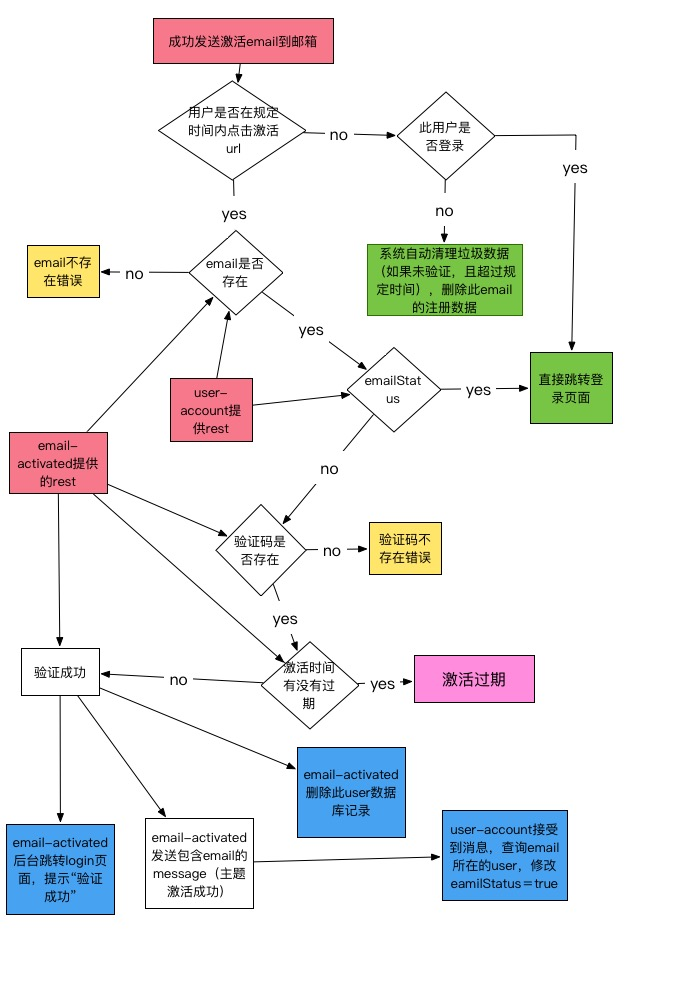
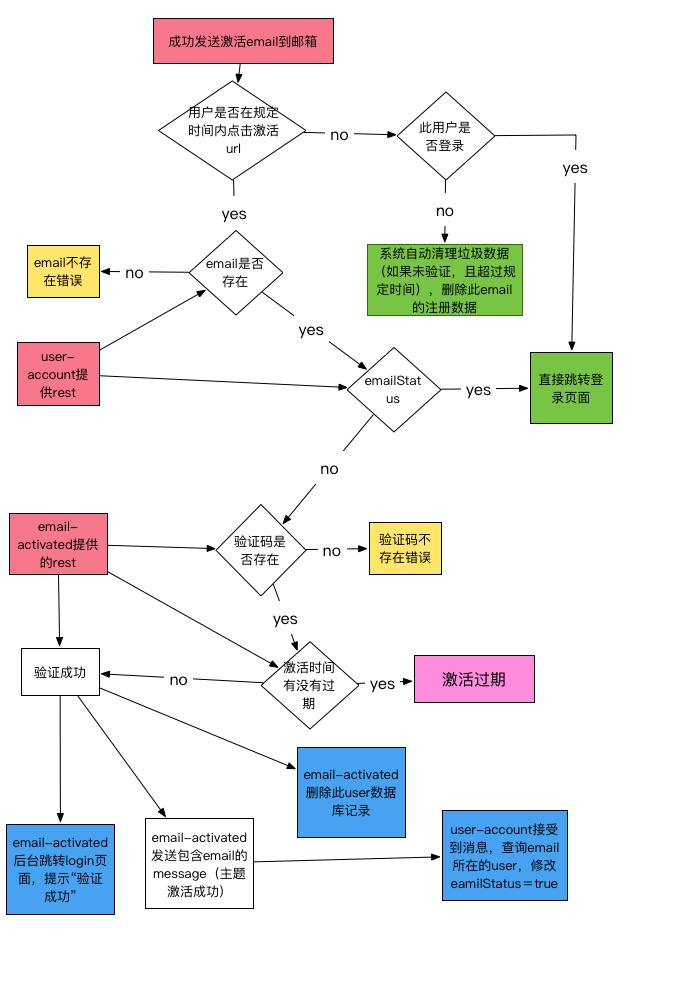
update readme

diff --git a/user-account/README.md b/user-account/README.md
@@ -31,10 +31,9 @@ user的数据库，必须和这些接口对接，不能直接操作数据库。
 
 九 、 更新用户登录时间－－－通过spring cloud stream 监听message（用户注册成功），接受到userId后，自动更新到该user 的 上次登录成功的时间为当时时间。
 
-十 、 通过spring cloud stream 监听 物业公司注册信息的message，当收到此信息后，converter 为user ，增加email激活码和设置email激活状态为false，后然后保存数据库。
+十 、 通过spring cloud stream 监听 物业公司注册信息的message，当收到此信息后，converter 为user ，和设置email激活状态为false，后然后保存数据库。
 
-十一 、 取出刚刚注册的user信息，转为EmailActivatedDto对象，然后发送message ，要求mail-server 发送注册帐号激活的email
 
-十二 、 当用户注册完后，前台页面跳转到 显示消息提示“ 请查收邮箱，如未收到，请查看垃圾邮件，或重新发送邮件，或重新注册”，pc-gateway，通过spring zuul获取到后台的rest接口，来显示上面的信息，和完成ajax提交。
 
-十三 、 当用户点击 激活email的链接时，后台有一个对应url的get方法，来判断url是否正确，是否过时，如果一起都是预期的，则将数据保存到数据库，并且更新用户的email激活状态为true，跳转login页面，并显示 激活成功的 提示信息，
+十一 、 当用户点击 激活email的链接时，如果通过验证，则将数据保存到数据库，并且更新用户的email激活状态为true，
+

diff --git a/auth-server/README.md b/auth-server/README.md
@@ -36,4 +36,4 @@
 
 十二 、 通过监听用户登录成功事件，实现了用户登录成功后，发送spring cloud stream message（userId） 出去，（user——account）接受，并且更新用户登录时间为当时时间的功能。
 
-十四 、 实现了用户登录检测用户的email是否激活的功能，前台负责检测，并且提示信息，ajax获取需要检测的数据，只有用户名，密码检测需要后台提示信息。如果用户的email未激活，且未过期，则前台显示“再次发送激活邮件，或重新注册”，当用户选择这两个按钮的时候，对应的后台是再次发送email激活的message和删除此user 的message，如果用户激活次数过多，则提示“激活多余频繁，请稍后再试，或重新注册”
+十四 、 实现了用户登录检测用户的email是否激活的功能，如果未激活，则不能登录，后台做了未激活，自动拦截的功能，前台通过url调用的方式，调用email-activate的url，实现页面跳转和逻辑判断。

diff --git a/property-register/README.md b/property-register/README.md
@@ -12,8 +12,8 @@
    
    4 、 将注册的信息打包成message dto 利用spring cloud stream 发送给user-account 
    
-   5 、 user－account 接受到注册信息的message，执行dto converter 转换成user 的操作，然后保存数据库，并发送email出去激活帐号。
+   5 、 创建email激活的dto，设定随机码和到期时间，发送message给email-activate 和mail－server,前者接受到消息后，存储数据库，后者实现发送邮件的功能
    
-   6 、 然后页面跳转到 信息提示页面，“查看邮件，或再次发送。。”，这些是 pc-gateway和 user-account 来处理。－－－完成
+   6 、 前台页面附带参数，跳转到 register／result页面，让客户选择后续的操作，是重新发送邮件，还是重新注册。
    
-   三 、 
+三 、 

diff --git a/README.md b/README.md
@@ -8,9 +8,13 @@ spring micro－service cloud docker domo
 
 三 、 目前是每一个service单独的数据库，相互之间没有实现message broker。
 
+四 、 增加了在指定限制时间内email激活账户的功能，如果未激活不能登录账户，超时了未激活，自动删除账户。
 
-四 、 更新于 2016-5-4: 接下来需要实现的功能： 
-     邮箱验证（role ＝物业公司）物业公司资料编辑
+
+四 、 更新于 2016-5-14: 接下来需要实现的功能： 
+     忘记密码，重设密码功能
+     
+     在下一步是，编辑用户资料的功能
   
  
 
